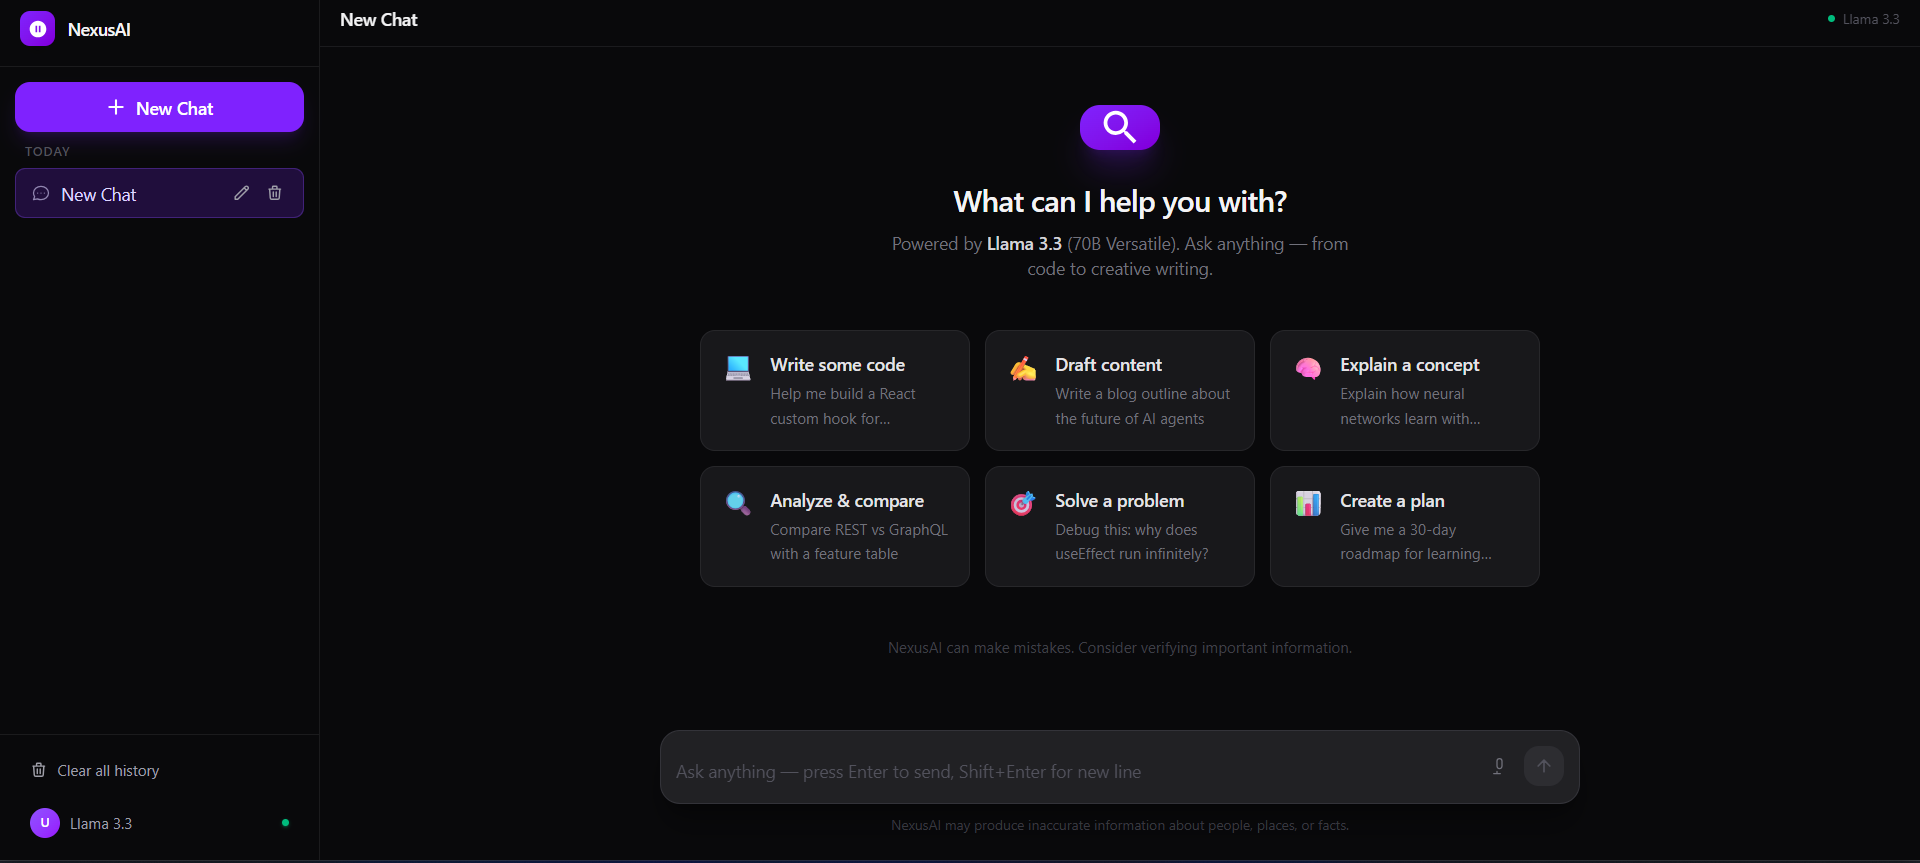
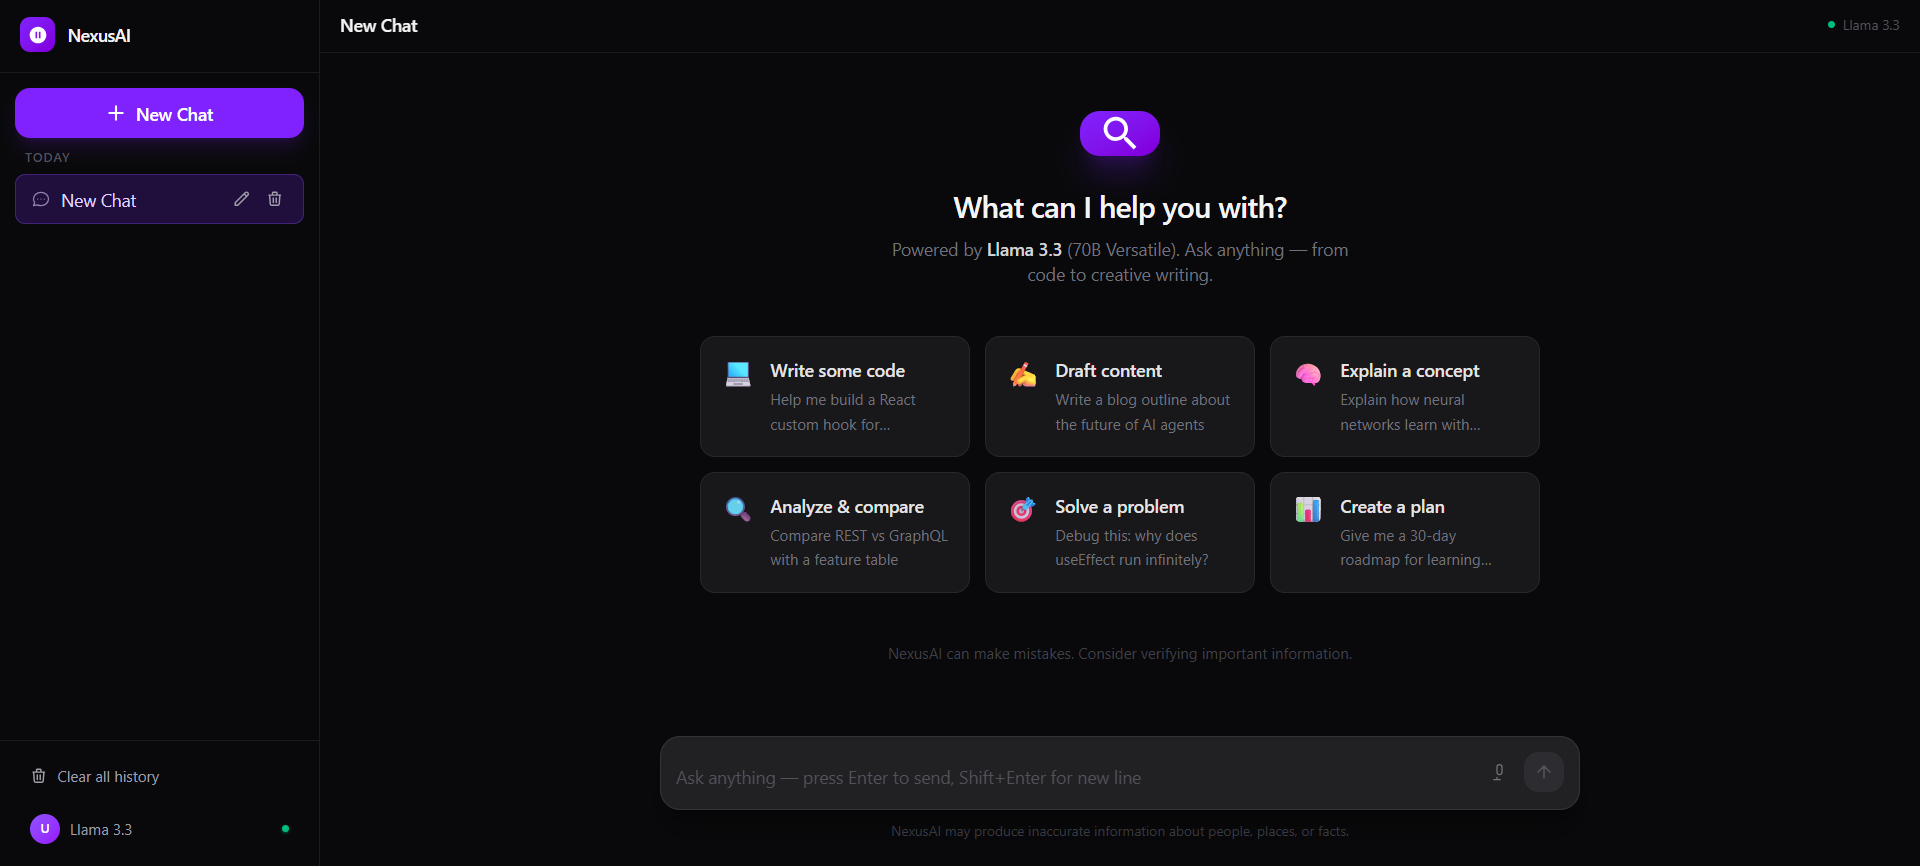
fix(navbar): move themtogglebtn to outer of the component to preavent re-render

diff --git a/src/components/Navbar.jsx b/src/components/Navbar.jsx
@@ -8,20 +8,21 @@ const NAV_LINKS = [
   { href: "#contact", label: "Contact" },
 ];
 
+const ThemeToggleButton = ({ className = "" }) => (
+  <button
+    type="button"
+    onClick={toggleTheme}
+    className={`flex items-center justify-center w-10 h-10 rounded-md border border-gray-300 dark:border-gray-700 text-gray-600 dark:text-gray-300 bg-gray-200 dark:bg-gray-800 hover:bg-gray-300 dark:hover:bg-gray-700 transition ${className}`}
+    aria-label={
+      theme === "dark" ? "Switch to light mode" : "Switch to dark mode"
+    }
+  >
+    {theme === "dark" ? <Sun size={18} /> : <Moon size={18} />}
+  </button>
+);
 const Navbar = ({ theme, toggleTheme }) => {
   const [isOpen, setIsOpen] = useState(false);
   const closeMenu = () => setIsOpen(false);
-
-  const ThemeToggleButton = ({ className = "" }) => (
-    <button
-      type="button"
-      onClick={toggleTheme}
-      className={`flex items-center justify-center w-10 h-10 rounded-md border border-gray-300 dark:border-gray-700 text-gray-600 dark:text-gray-300 bg-gray-200 dark:bg-gray-800 hover:bg-gray-300 dark:hover:bg-gray-700 transition ${className}`}
-      aria-label={theme === "dark" ? "Switch to light mode" : "Switch to dark mode"}
-    >
-      {theme === "dark" ? <Sun size={18} /> : <Moon size={18} />}
-    </button>
-  );
 
   return (
     <header